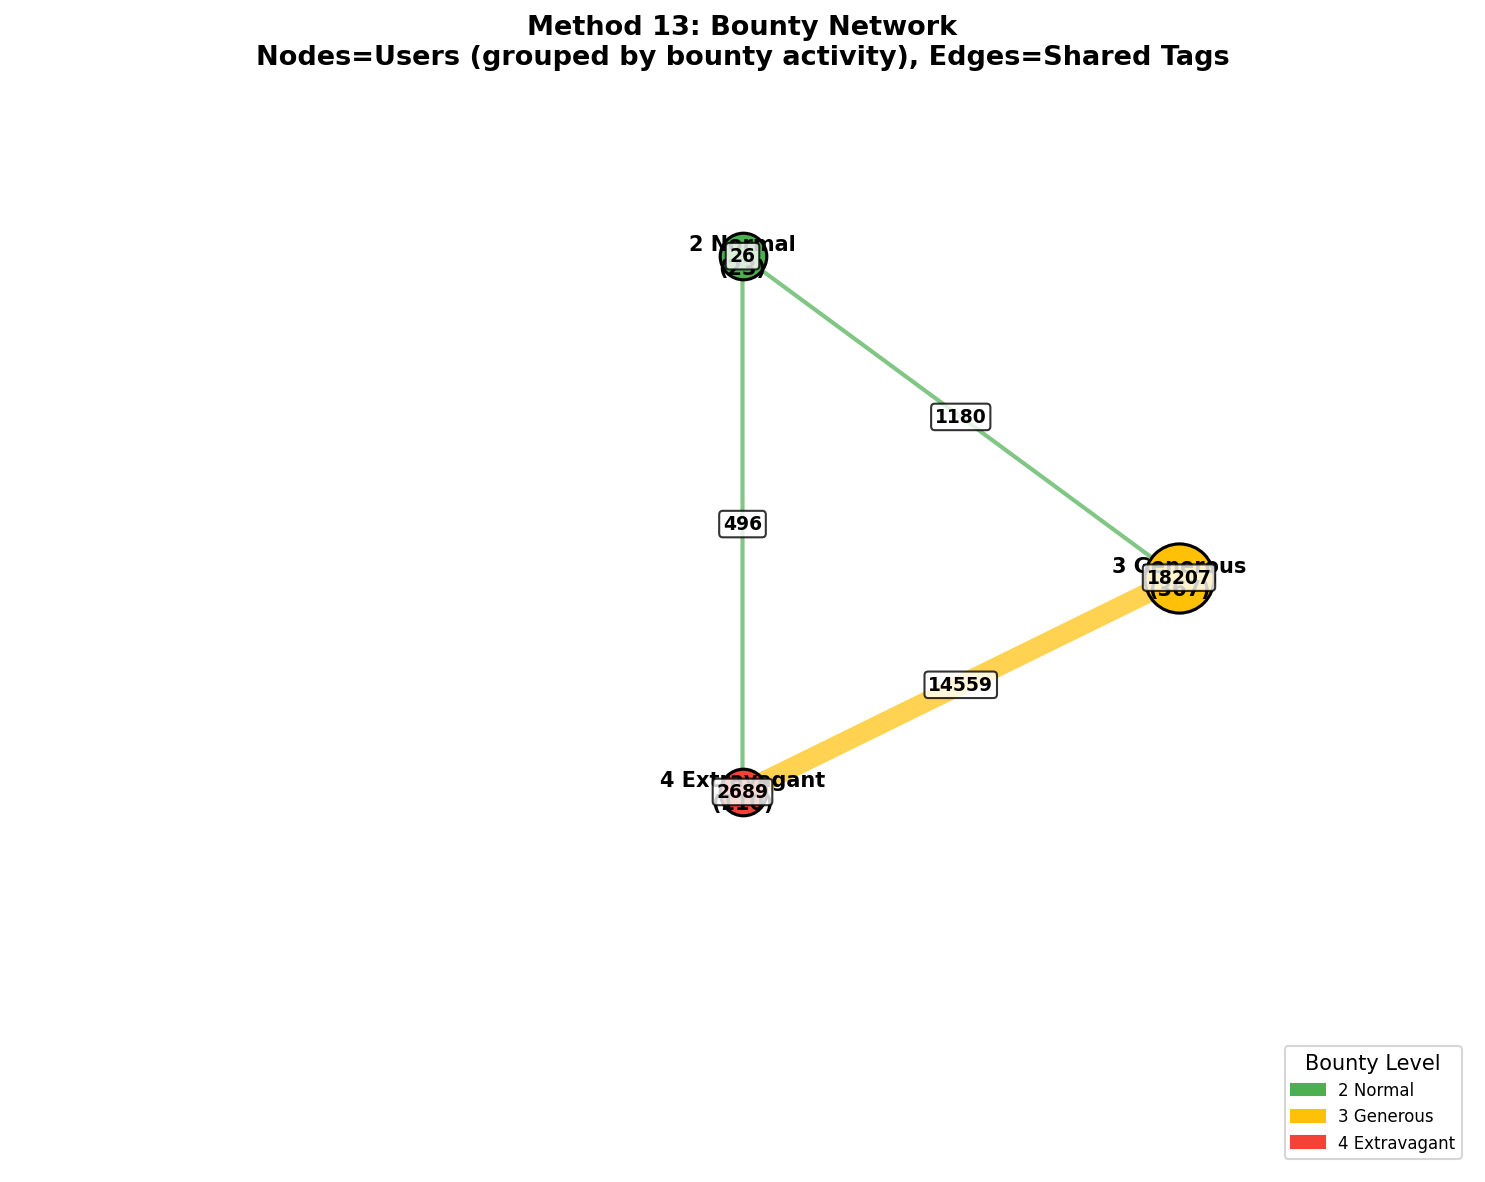
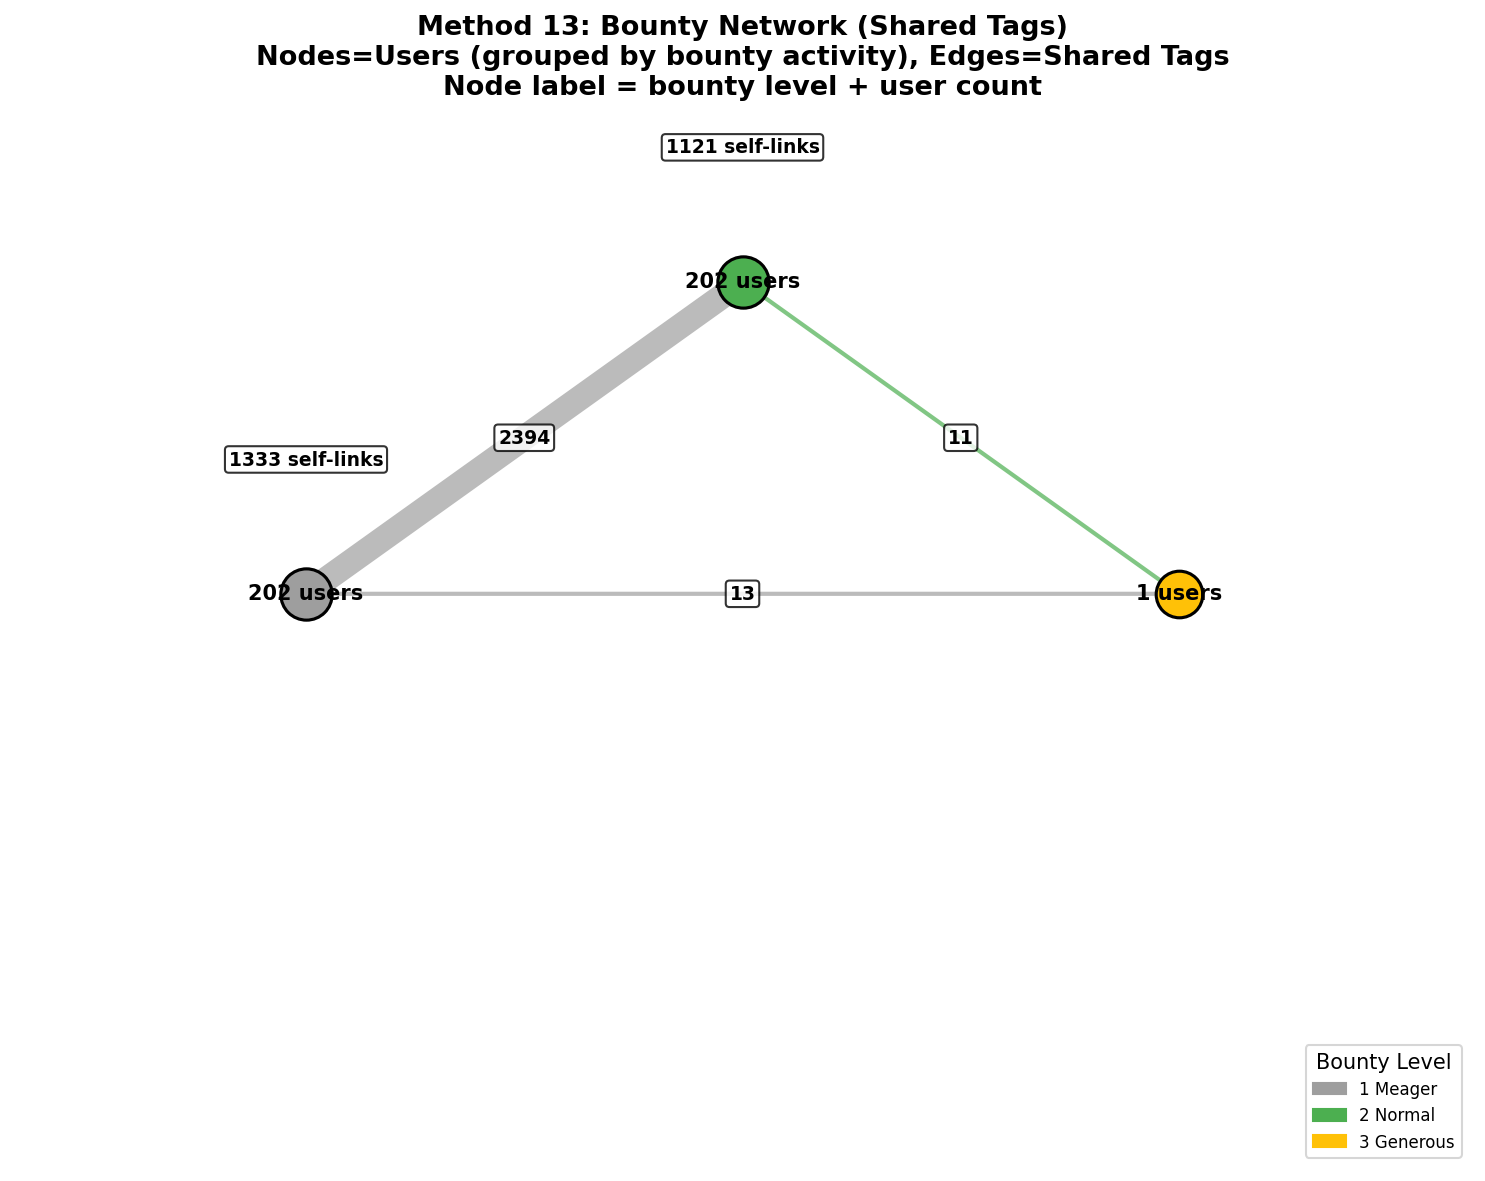
fix: update analysis 13 to reflect shared tags in bounty network and adjust related visualizations

diff --git a/src/sna_runner.py b/src/sna_runner.py
@@ -645,7 +645,7 @@ class SNARunner:
             if "graph" in result and result["graph"] is not None:
                 self.plotter.plot_network_graph(
                     result["graph"],
-                    "Method 13: Bounty Network\nNodes=Users, Edges=Bounty | Color: Bounty Level",
+                    "Method 13: Bounty Network (Shared Tags)\nNodes=Users, Edges=Shared Tags | Color: Bounty Level",
                     color_by="bounty_level",
                     filename="analysis_13_network_raw.png",
                     legend_info=LEGEND_INFO["analysis_13"],
@@ -1916,7 +1916,7 @@ class SNARunner:
         }
         colors = {
             "0_None": "#9E9E9E",
-            "1_Meager": "#42A5F5",
+            "1_Meager": "#9E9E9E",
             "2_Normal": "#4CAF50",
             "3_Generous": "#FFC107",
             "4_Extravagant": "#F44336",
@@ -1961,7 +1961,7 @@ class SNARunner:
             ax.text(
                 x,
                 y,
-                f"{lvl.replace('_', ' ')}\n({count})",
+                f"{count} users",
                 ha="center",
                 va="center",
                 fontsize=10,
@@ -1978,6 +1978,19 @@ class SNARunner:
             x2, y2 = positions[n2]
             thickness = max(2, cnt / max_count * 12)
             color = colors.get(n1, "#9E9E9E")
+            if n1 == n2:
+                ax.text(
+                    x1,
+                    y1 + 0.12,
+                    f"{cnt} self-links",
+                    ha="center",
+                    va="bottom",
+                    fontsize=9,
+                    fontweight="bold",
+                    bbox=dict(boxstyle="round,pad=0.2", facecolor="white", alpha=0.8),
+                    zorder=5,
+                )
+                continue
             ax.annotate(
                 "",
                 xy=(x2, y2),
@@ -2010,7 +2023,7 @@ class SNARunner:
             title="Bounty Level",
         )
         ax.set_title(
-            "Method 13: Bounty Network\nNodes=Users (grouped by bounty activity), Edges=Shared Tags",
+            "Method 13: Bounty Network (Shared Tags)\nNodes=Users (grouped by bounty activity), Edges=Shared Tags\nNode label = bounty level + user count",
             fontsize=13,
             fontweight="bold",
             pad=15,

diff --git a/src/analysis/bounty_network.py b/src/analysis/bounty_network.py
@@ -1,7 +1,7 @@
 """
-分析主題 13: 賞金懸賞網路分析
+分析主題 13: 賞金懸賞共用標籤網路分析
 ==============================
-分析懸賞者與回答者之間的賞金分配關係
+分析以賞金活動為基礎，建立使用者之間的共用標籤關聯網路
 """
 
 from typing import Dict, Any, Tuple
@@ -14,7 +14,7 @@ from ..models.graph_builder import GraphBuilder
 
 
 class BountyNetworkBuilder(GraphBuilder):
-    """賞金懸賞網路建構器"""
+    """賞金懸賞共用標籤網路建構器"""
 
     def build_bounty_network(self, limit: int = 100) -> Tuple[ig.Graph, pd.DataFrame]:
         sample_size = limit * 50
@@ -123,7 +123,7 @@ class BountyNetworkBuilder(GraphBuilder):
 
 
 class BountyNetworkAnalyzer:
-    """賞金懸賞網路分析器"""
+    """賞金懸賞共用標籤網路分析器"""
 
     def __init__(self, data_loader: DataLoader = None):
         self.data_loader = data_loader or DataLoader()
@@ -133,7 +133,7 @@ class BountyNetworkAnalyzer:
 
     def run(self, limit: int = 100) -> Dict[str, Any]:
         print("\n" + "=" * 60)
-        print("分析主題 13: 賞金懸賞網路分析")
+        print("分析主題 13: 賞金懸賞共用標籤網路分析")
         print("=" * 60)
 
         self.graph, self.bounties_df = self.builder.build_bounty_network(limit=limit)
